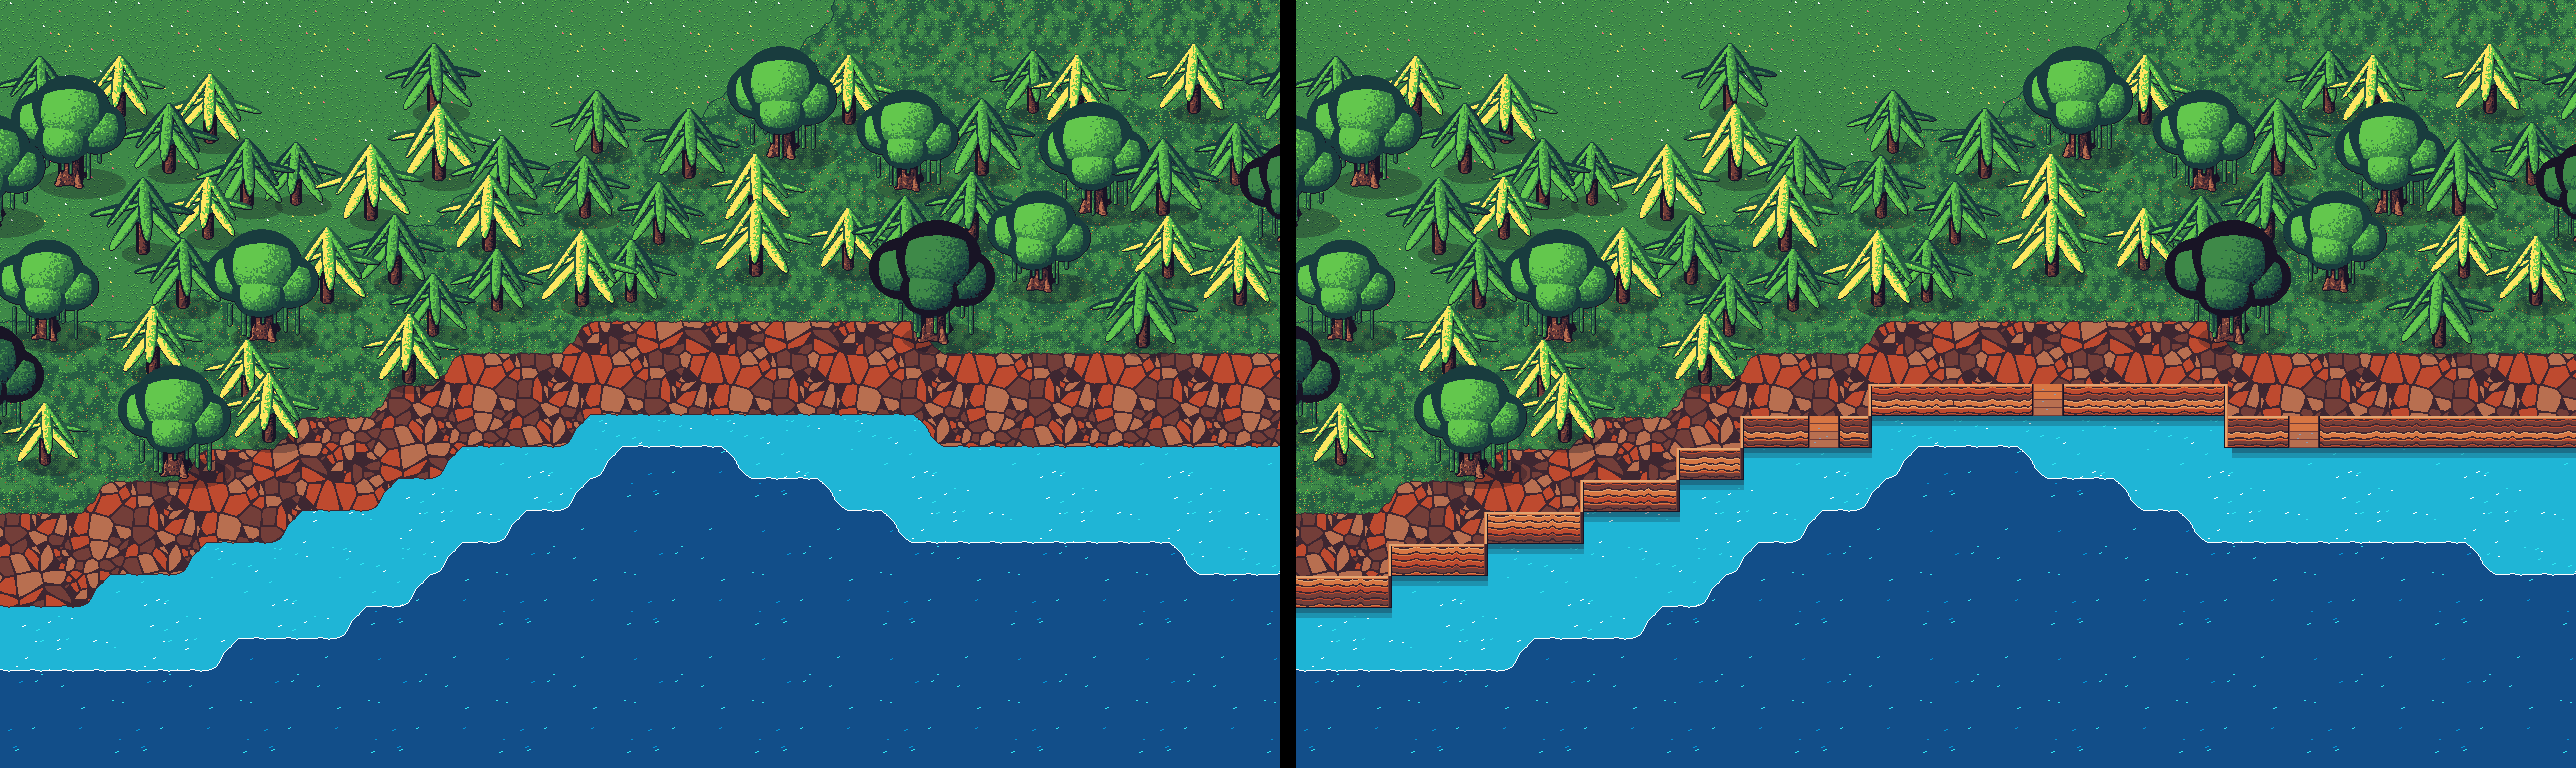
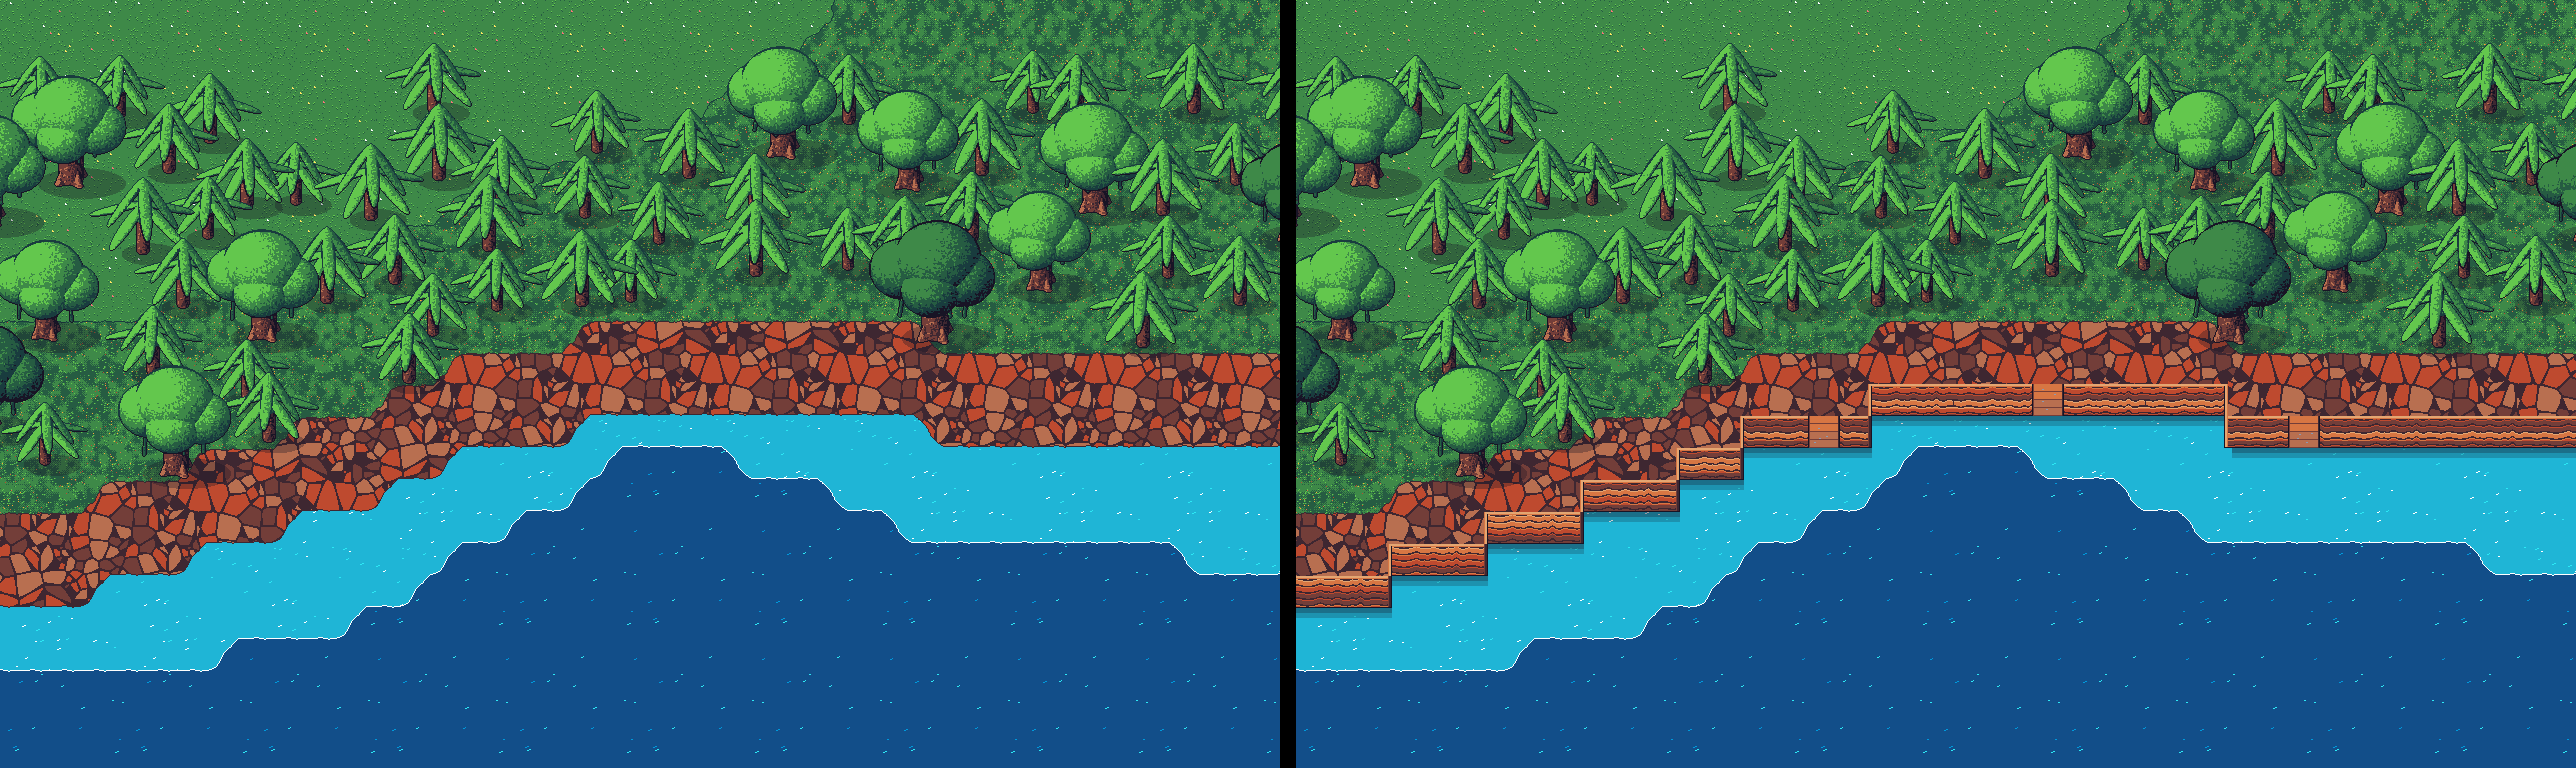
Alberi: niente contorno doppio sulle chiome, liane corte, felci senza giallo
Claude-Session: https://claude.ai/code/session_014ycMSkFAn8ixUvbSfrqtAR

diff --git a/tools/art/forge3d/creatures.py b/tools/art/forge3d/creatures.py
@@ -265,10 +265,11 @@ def tree(kind="oak", seed=1, leaf="leaf", trunk="bark", size=1.0, name=None):
         for sx, sy, sz, rad in [(0, 0, 22, 11), (-7.5, 2, 18, 8), (7.5, -1.5, 18.5, 8.5), (1.5, 7, 17.5, 7.5),
                                 (-1.5, -7, 19.5, 8)]:
             r.part("crown", "ellipsoid", (rad, rad, rad * 0.85), (sx + rnd.uniform(-.8, .8), sy, sz), mat=leaf)
-        for k in range(7):                            # liane: fili dal bordo della chioma, davanti al tronco
-            x = -9.0 + k * 3.0 + rnd.uniform(-1.2, 1.2)
-            lung = rnd.uniform(1.5, 5.5)
-            r.part("crown", "cylinder", (0.4, 0.4, lung), (x, 7.5 + rnd.uniform(-1, 1), 13.5 - lung), mat="leaf")
+        for k in range(4):                            # liane: fili scuri che escono da dentro la chioma
+            x = -7.5 + k * 5.0 + rnd.uniform(-1.2, 1.2)
+            lung = rnd.uniform(1.5, 3.0)                # mezza lunghezza: pendono fino a meta' tronco, non a terra
+            r.part("crown", "cylinder", (0.35, 0.35, lung), (x, 6.5 + rnd.uniform(-1, 1), 14.5 - lung),
+                   mat="leaf_dark", rot=(0, rnd.uniform(-8, 8), 0))
     elif kind == "mushroom":
         r.part("trunk", "cylinder", (2.0, 2.0, 5.0), (0, 0, 5.0), mat="bone")
         r.part("crown", "ellipsoid", (8.0, 8.0, 5.0), (0, 0, 11), mat="mushroom_red")

diff --git a/tools/art/forge3d/worldrender.py b/tools/art/forge3d/worldrender.py
@@ -45,8 +45,10 @@ def object_sprite(o, S=TILE):
     # sinistra): revisione 3.12
     sr = {"dead": (0.06, 0.03), "palm": (0.12, 0.045), "cipresso": (0.06, 0.03), "felce": (0.13, 0.05),
           "gigante": (0.2, 0.07)}.get(o.get("kind"), (0.15, 0.055)) if t == "tree" else (0.3, 0.12)
+    # inner_thr in proporzione alla grandezza del modello: con 1 unita' il bordo ripido di una sfera grande (chioma
+    # x3,6) superava la soglia sulla stessa superficie e diventava una fascia scura di 5-8 px (contorno doppio)
     img = render(r.instances({}, 180), size=(cw, ch), ppu=1.0, foot=(0.5, foot), shadow=(t not in ("bridge", "scoglio")),
-                 shadow_r=sr, shadow_off=(0.25, 0.3), shadow_a=80)
+                 shadow_r=sr, shadow_off=(0.25, 0.3), shadow_a=80, inner_thr=max(1.0, r.scale))
     if t == "scoglio":
         img = _sommerso(img, int(ch * foot) - max(2, int(3 * k)), o["seed"])
     _cache[key] = (img, cw // 2, int(ch * foot))

diff --git a/tools/art/build_world.py b/tools/art/build_world.py
@@ -72,7 +72,7 @@ L = LEVEL
 # di ogni profilo non cambia mai: la scelta consuma numeri casuali, e il resto del mondo (rocce, sottosuolo) dipende
 # da quanti ne restano. Per cambiare le proporzioni si ripete una voce, non se ne aggiunge una.
 ALBERI = {"campagna": (0.035, [("ulivo", "leaf_olive"), ("cipresso", "leaf_dark"), ("ulivo", "leaf_olive")]),
-          "giungla": (0.32, [("gigante", "leaf_dark"), ("felce", "leaf"), ("gigante", "leaf"), ("felce", "leaf_light")]),
+          "giungla": (0.32, [("gigante", "leaf_dark"), ("felce", "leaf"), ("gigante", "leaf"), ("felce", "leaf")]),   # felci: niente giallo
           "foresta": (0.28, [("oak", "leaf_dark"), ("pine", "leaf_dark"), ("oak", "leaf")]),
           "rado": (0.02, [("dead", "leaf"), ("pine", "leaf_dark")]),
           "neve": (0.006, [("pine", "snow")]),

diff --git a/arte/confronto_concept.md b/arte/confronto_concept.md
@@ -53,10 +53,13 @@ Le concept raccontano le regioni con **oggetti, edifici e un luogo simbolo**; il
   **altare di radici** circondato di fiori rossi, un raggio di luce.
 - **Adesso:** alla `radice_del_mondo` un bosco fitto di querce, pini e felci generici, verde saturo; nessuna
   radura, nessun altare.
-- **Difetti trovati** (`difetti_alberi_valle.png`), da correggere a parte:
-  1. **contorno doppio**: dietro la chioma delle querce si vede un anello scuro spesso 2-3 px;
-  2. **righe verticali** sotto le chiome, come gocce;
-  3. felci **giallo acceso**, troppo sature per un bosco antico.
+- **Difetti trovati e corretti** (2026-10-20, `alberi_valle_prima_dopo.png`):
+  1. **contorno doppio** (fascia scura di 5-8 px sul bordo delle chiome, in tutti gli alberi): la soglia delle
+     linee interne era 1 unita' anche per i modelli ingranditi x3,6, e il bordo ripido di una sfera grande la
+     superava sulla stessa superficie. Ora `worldrender.object_sprite` usa `inner_thr = scala del modello`;
+  2. **righe verticali**: erano le liane del `gigante`, dritte, chiare e lunghe fino a terra. Ora 4 fili scuri
+     che escono dalla chioma e pendono fino a meta' tronco;
+  3. felci **giallo acceso**: nella giungla ora `leaf` invece di `leaf_light` (stessa scelta casuale, mappa uguale).
 - **Manca:** un albero "antico" contorto e muschioso (tipo nuovo in `creatures.tree`), radura con altare di
   radici e fiori rossi, nebbia bassa (strato del gioco), raggio di luce.
 
@@ -75,7 +78,7 @@ Le concept raccontano le regioni con **oggetti, edifici e un luogo simbolo**; il
 
 ## Cosa propongo, in ordine
 
-1. **Difetti degli alberi** (contorno doppio, righe, felci gialle): sono imperfezioni, vanno tolte prima di tutto.
+1. ~~Difetti degli alberi~~ (contorno doppio, righe, felci gialle): **fatto** 2026-10-20.
 2. **Decisione sull'atmosfera:** sprite luminosi come ora, ma una **luce d'ambiente per regione** messa dal gioco
    (dato in `regions.json`, come la prova 4 dell'Archivio). Non cambia nessun PNG e avvicina molto le concept.
 3. **Un luogo simbolo per regione**, uno alla volta, con oggetti nuovi in forge3d: sala dell'Archivio (porta
